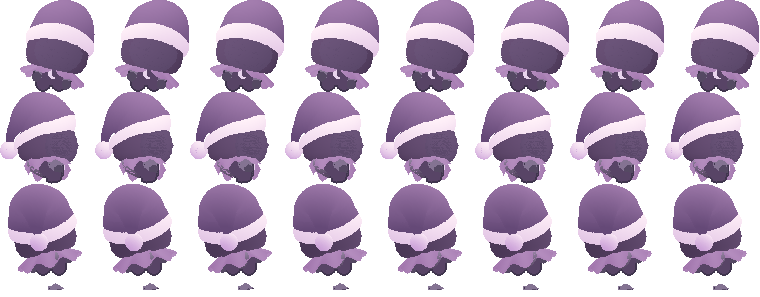
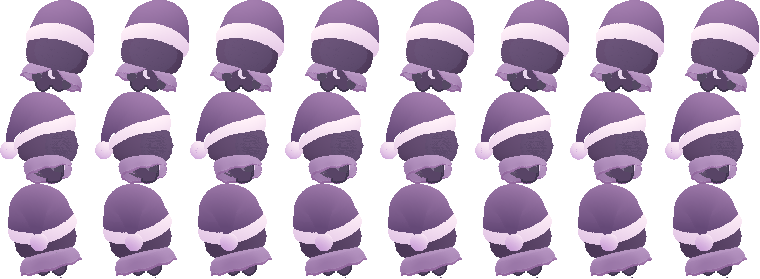
肩から腰へ垂れるケープに作り直す

diff --git a/tools/art/spirit3d/light_dark.py b/tools/art/spirit3d/light_dark.py
@@ -6,9 +6,10 @@
 折り返しは額で高さ約56ドット、うなじで約32ドット。幅12〜16ドットの
 帯を頭に回し、その上辺に丸い紫の布をつなぐ。布は後頭部の中央近くで
 帯の上にたれ、うなじの高さで直径約18ドットの房をとめる。
-ケープは首もとから幅約65ドットに広がり、肩と背中を一枚の布で包む。
-トモリは金縁のクリーム色の布を胸のしずくで、ツキミは淡い紫の布を
-三日月で留める。背中の裾は中央と左右に丸いひだが見える形にする。
+ケープは胸の留め具から首の後ろへ回る襟を土台にする。肩で幅約55
+ドット、腰で約62ドット。一枚の布が肩に沿って広がり、そこから下に
+垂れる。背中側は長く、前が開いて手足が出る。トモリは金縁のクリーム
+色の布をしずくで留め、ツキミは淡い紫の布を三日月で留める。
 """
 from math import pi
 import numpy as np
@@ -187,37 +188,51 @@ def night_cap():
 
 
 def mantle(dark):
-    """胸の留め具から肩と背中を一枚で包む短いケープ。"""
-    drop = np.linspace(0,1,115)[:,None]
-    around = np.linspace(0,1,560)
-    opening = .02+.375*drop**2
+    """襟ぐりから肩に沿って広がり、腰へ垂れる前開きのケープ。"""
+    drop = np.linspace(0,1,129)[:,None]
+    around = np.linspace(0,1,512)
+    opening = .035+.51*drop**1.8
     angle = opening+(2*pi-2*opening)*around
     side,front = np.sin(angle),np.cos(angle)
-
-    # 肩からすそへ広げ、背中の中央と左右のひだを丸く落とす。
+    chest = np.maximum(front,0)
     back = np.maximum(-front,0)
-    rear = np.clip(2.4*back,0,1)
-    lobe = .5+.5*((1-rear)*np.cos(6*angle)+rear*np.cos(8*angle))
-    ripple = lobe*drop**2.4
-    x = (9.4+23.2*drop+1.4*ripple)*side
-    y = (11.5+9.8*drop+.9*ripple)*front
-    y += drop*(4.5*side**2-.7)
-    # 背中の布はしっぽのつけ根を覆い、下からしっぽを出す。
-    y -= 9*back**5*np.sin(pi*drop)**1.5
-    hem = 17.5+1.1*front-(5+2*rear)*lobe
-    z = 28.7+(hem-28.7)*drop**1.3
-    cloth = np.stack((x,y,z),axis=-1).reshape(-1,3)
 
-    shade = np.clip(.71-.23*drop+.14*lobe*drop-.09*side+.035*front,0,1)
+    # 断面は襟、肩の内側、肩先、腰、裾の順。
+    rows = np.array([
+        (0,12.6,13.65,28.4),
+        (.30,21,17,25.6),
+        (.52,27.5,20.5,21.8),
+        (.78,30,22,15.1),
+        (1,29.7,22.7,10.5),
+    ])
+    width,depth,height = PchipInterpolator(rows[:,0],rows[:,1:],axis=0)(drop[:,0]).T
+    fold = (np.cos(8*angle)+1)/2
+    lower = drop**3
+    # 肩を丸く越え、裾では横へ広がりすぎずに小さなひだを作る。
+    binding = .4*np.sin(pi*np.clip((drop-.9)/.1,0,1))
+    x = (width[:,None]+(.3+fold)*lower+binding)*side
+    y = (depth[:,None]+.7*fold*lower+binding)*front
+    y += drop*(3.4*side**2-.7)
+    # 背中の布はしっぽのつけ根より外を通る。
+    y -= 6*back**4*np.sin(pi*drop)**1.35
+    z = height[:,None]-2.7*chest*(1-drop)**2
+    z += (6.6*chest-3*back-1.5*fold)*lower
+    surface = np.stack((x,y,z),axis=-1)
+
+    along_drop,along_edge = np.gradient(surface,axis=(0,1))
+    normal = np.cross(along_edge,along_drop)
+    normal /= np.linalg.norm(normal,axis=-1,keepdims=True)
+    light = np.clip(normal@np.array([-.36,.24,.72]),-.45,.8)
+    shade = np.clip(.52+.43*light+.08*fold*lower-.10*(1-drop)**6,0,1)
+    rim = (drop >= .923) | (np.minimum(around,1-around) < .0075)
     if dark:
-        color = tones(rgb('#885795'),rgb('#c7a4d0'),shade.ravel())
+        color = tones(rgb('#856094'),rgb('#c6a6d0'),shade.ravel())
+        color[rim.ravel()] = tones(rgb('#80548b'),rgb('#b28abe'),shade[rim])
     else:
-        color = tones(rgb('#f3e3bd'),rgb('#fff9e9'),shade.ravel())
-        # 胸の開きと裾の端に細い金色の縁を回す。
-        rim = (drop >= .90) | ((np.minimum(around,1-around) < .012) & (drop > .23))
-        color[rim.ravel()] = tones(rgb('#ecb148'),rgb('#ffdf88'),shade[rim])
+        color = tones(rgb('#ead9b5'),rgb('#fff9ea'),shade.ravel())
+        color[rim.ravel()] = tones(rgb('#e6a947'),rgb('#ffdb83'),shade[rim])
 
-    return cloth,color
+    return surface.reshape(-1,3),color
 
 
 class LightDark(Spirit):

diff --git a/handoff/from-gpt.md b/handoff/from-gpt.md
@@ -37,7 +37,7 @@
 - 持ち主の見本を元に3Dで組んだ。水の精霊と同じ顔、体、手足、骨と、共通の表情チップを使った。
 - 新しい設定画に合わせ、トモリの頭巾に金色の縁をつけ、先のとがった七つの光を横からも順に見えるように並べた。
 - ツキミは丸い紫のナイトキャップと淡い桃紫の折り返しにした。縁は額からうなじへ回り、布は後頭部を覆って、背面中央近くの房まで続く。正面の房は頭の後ろにかくれる。
-- 2体のケープは首もとから肩と背中を一枚で包み、背中の裾は中央と左右を丸く下げた。トモリはクリーム色に金の縁を入れて胸のしずくで留め、ツキミは淡い紫の布を三日月で留めた。
+- 2体のケープは襟ぐりを首に回し、一枚の布が肩に沿って広がってから腰へ垂れる形にした。前は胸の留め具から開き、背中の裾は前より長くした。トモリはクリーム色に金の縁を入れて胸のしずくで留め、ツキミは淡い紫の布を三日月で留めた。
 - [正面・右・背面・左](files/H-4/character-views.png) ・ [歩く動き](files/H-4/walk.gif) ・ [動きの見本](files/H-4/motion-views.png)
 - `parts/` に頭巾・飾り・顔・しっぽなどの透過 PNG、`motions/` に11動作 × 2属性の WebP を置いた。各動作のシートは正面・横・後ろの順。全552コマが書き出され、2体のケープを含む20点の部品の大きさと透過も確認した。目の位置、手の位置、絵の基準は [sprites.json](files/H-4/sprites.json)。
 - `python3 tools/art/spirit3d/build_handoff.py handoff/files/H-4` で同じ絵を作る。動作名を指定して別の動きも出せる。 `--all` で全動作を写す。
